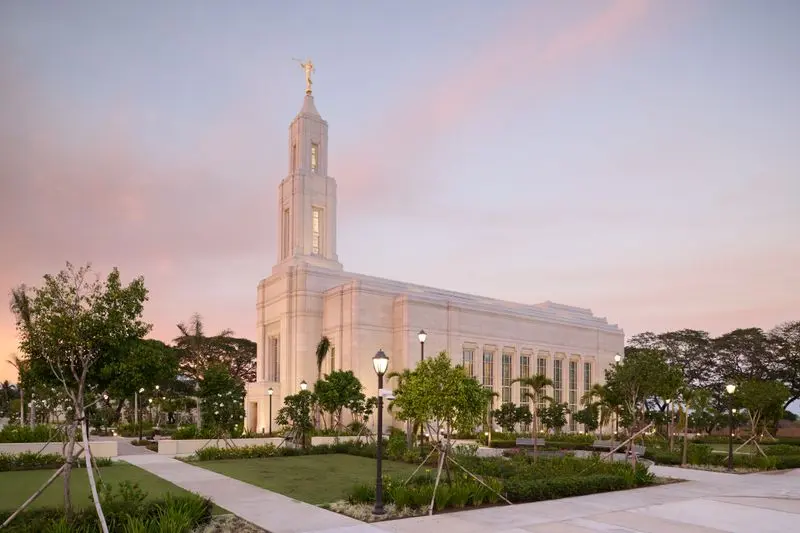
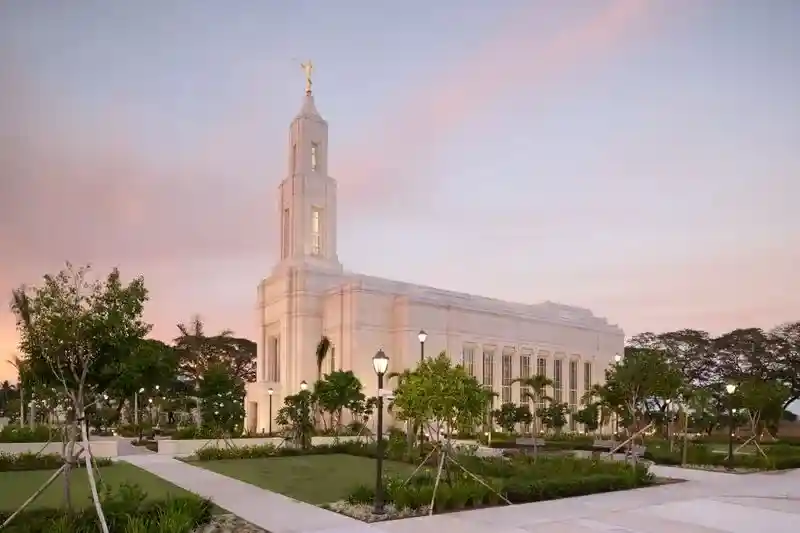
changed imagea cos of their sizes

diff --git a/temples.html b/temples.html
@@ -30,35 +30,35 @@
         <h1>Home</h1>
         <section class="container">
             <figure>
-                <img src="images/anchorage-alaska-temple-1.jpg" alt="Anchorage Alaska Temple">
+                <img src="images/anchorage-alaska-temple-1.webp" alt="Anchorage Alaska Temple">
                 <figcaption>Anchorage Alaska Temple</figcaption>
             </figure>
             <figure>
-                <img src="images/bacolod-temple.jpg" alt="Bacolod Philippines Temple">
+                <img src="images/bacolod-temple.webp" alt="Bacolod Philippines Temple">
                 <figcaption>Bacolod Philippines Temple</figcaption>
             </figure>
             <figure>
-                <img src="images/cebu-temple.jpg" alt="Cebu City Philippines Temple">
+                <img src="images/cebu-temple.webp" alt="Cebu City Philippines Temple">
                 <figcaption>Cebu City Philippines Temple</figcaption>
             </figure>
             <figure>
-                <img src="images/davao-temple.jpg" alt="Davao Philippines Temple">
+                <img src="images/davao-temple.webp" alt="Davao Philippines Temple">
                 <figcaption>Davao Philippines Temple</figcaption>
             </figure>
             <figure>
-                <img src="images/laie-temple.jpg" alt="Laie Hawaii Temple">
+                <img src="images/laie-temple.webp" alt="Laie Hawaii Temple">
                 <figcaption>Laie Hawaii Temple</figcaption>
             </figure>
             <figure>
-                <img src="images/manila-temple.jpg" alt="Manila Philippines Temple">
+                <img src="images/manila-temple.webp" alt="Manila Philippines Temple">
                 <figcaption>Manila Philippines Temple</figcaption>
             </figure>
             <figure>
-                <img src="images/salt-lake-temple.jpg" alt="Salt Lake Temple">
+                <img src="images/salt-lake-temple.webp" alt="Salt Lake Temple">
                 <figcaption>Salt Lake Temple</figcaption>
             </figure>
             <figure>
-                <img src="images/sapporo-temple.jpg" alt="Sapporo Japan Temple">
+                <img src="images/sapporo-temple.webp" alt="Sapporo Japan Temple">
                 <figcaption>Sapporo Japan Temple</figcaption>
             </figure>
             <figure>
